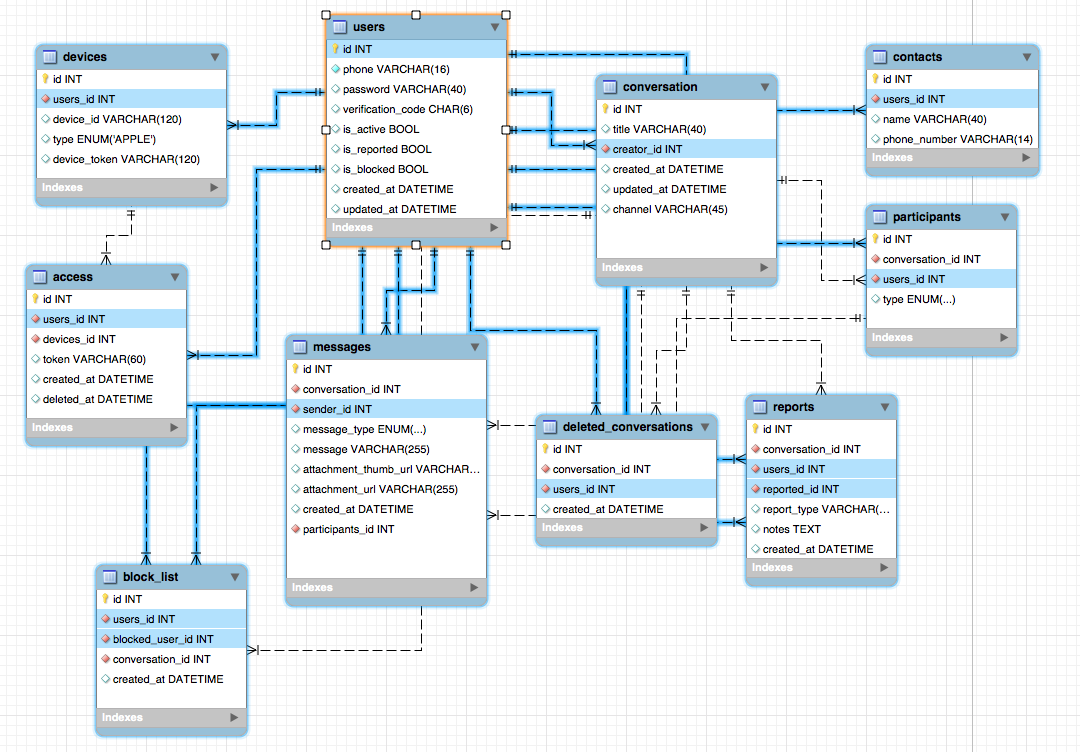
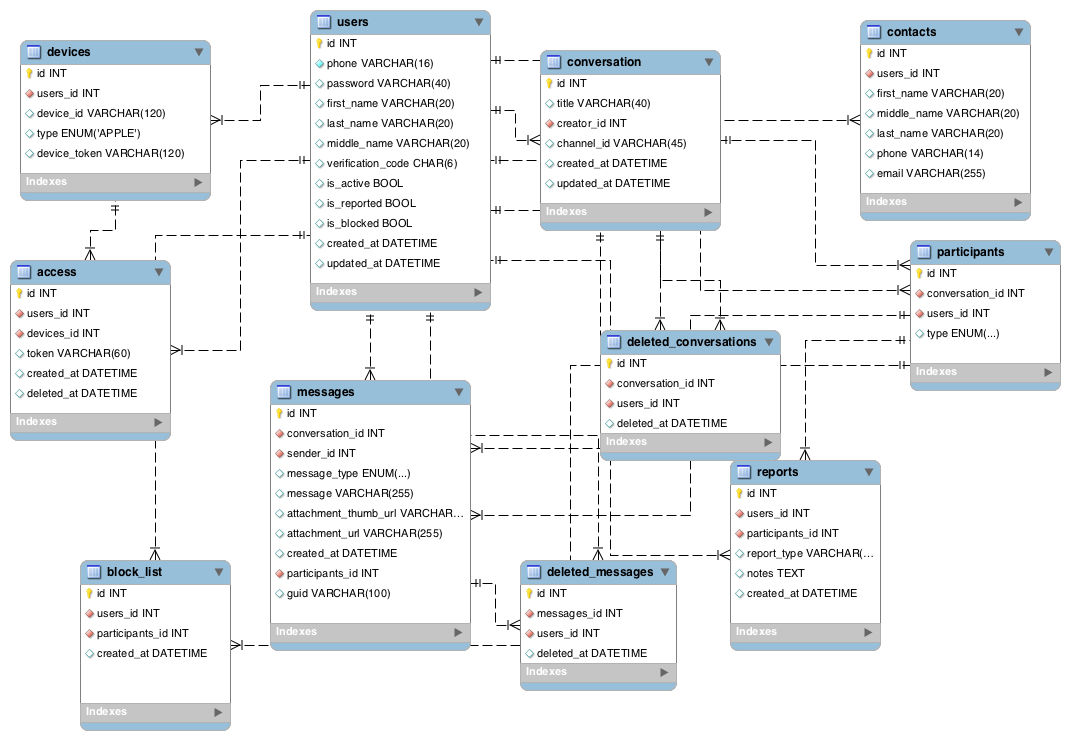
deleted option added for the Messages table

diff --git a/README.md b/README.md
@@ -1,6 +1,3 @@
 # Messenger
-Messenger Database Design Concept. if you really like it use it, implement it and share the link with me ;) Happy Messaging!
-
-
+Messenger Database Design Concept. If you really like it? use it, implement it and share the link with me ;) Happy Messaging!
 ![Alt Messages Databse Design](https://github.com/eyoosuf/Messenger/blob/master/Messages.png)
-
